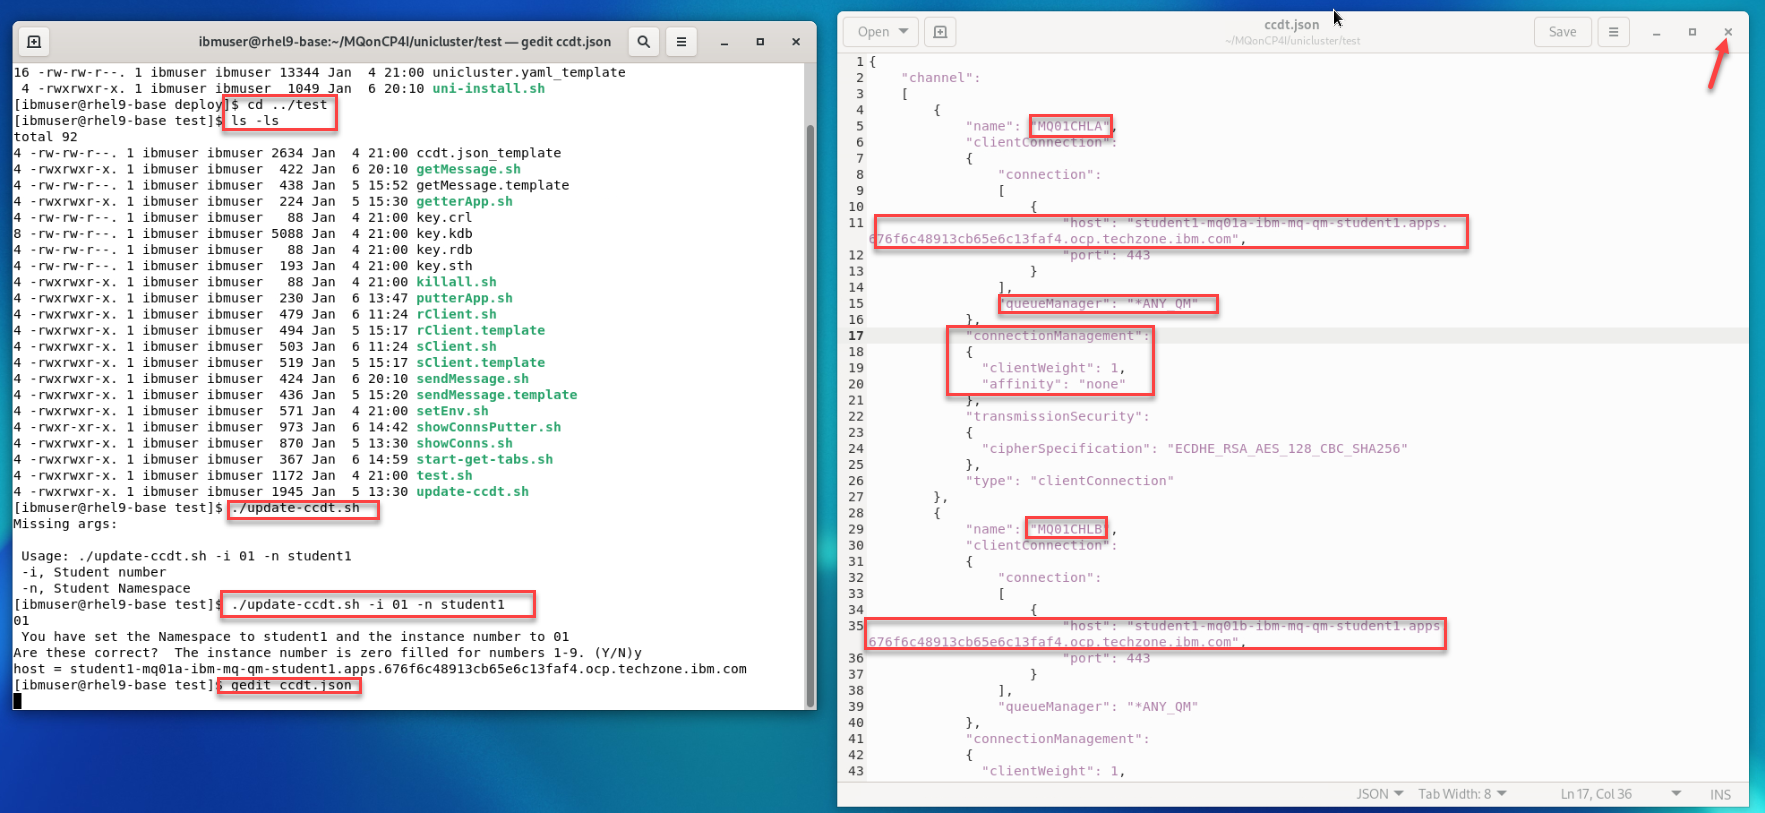
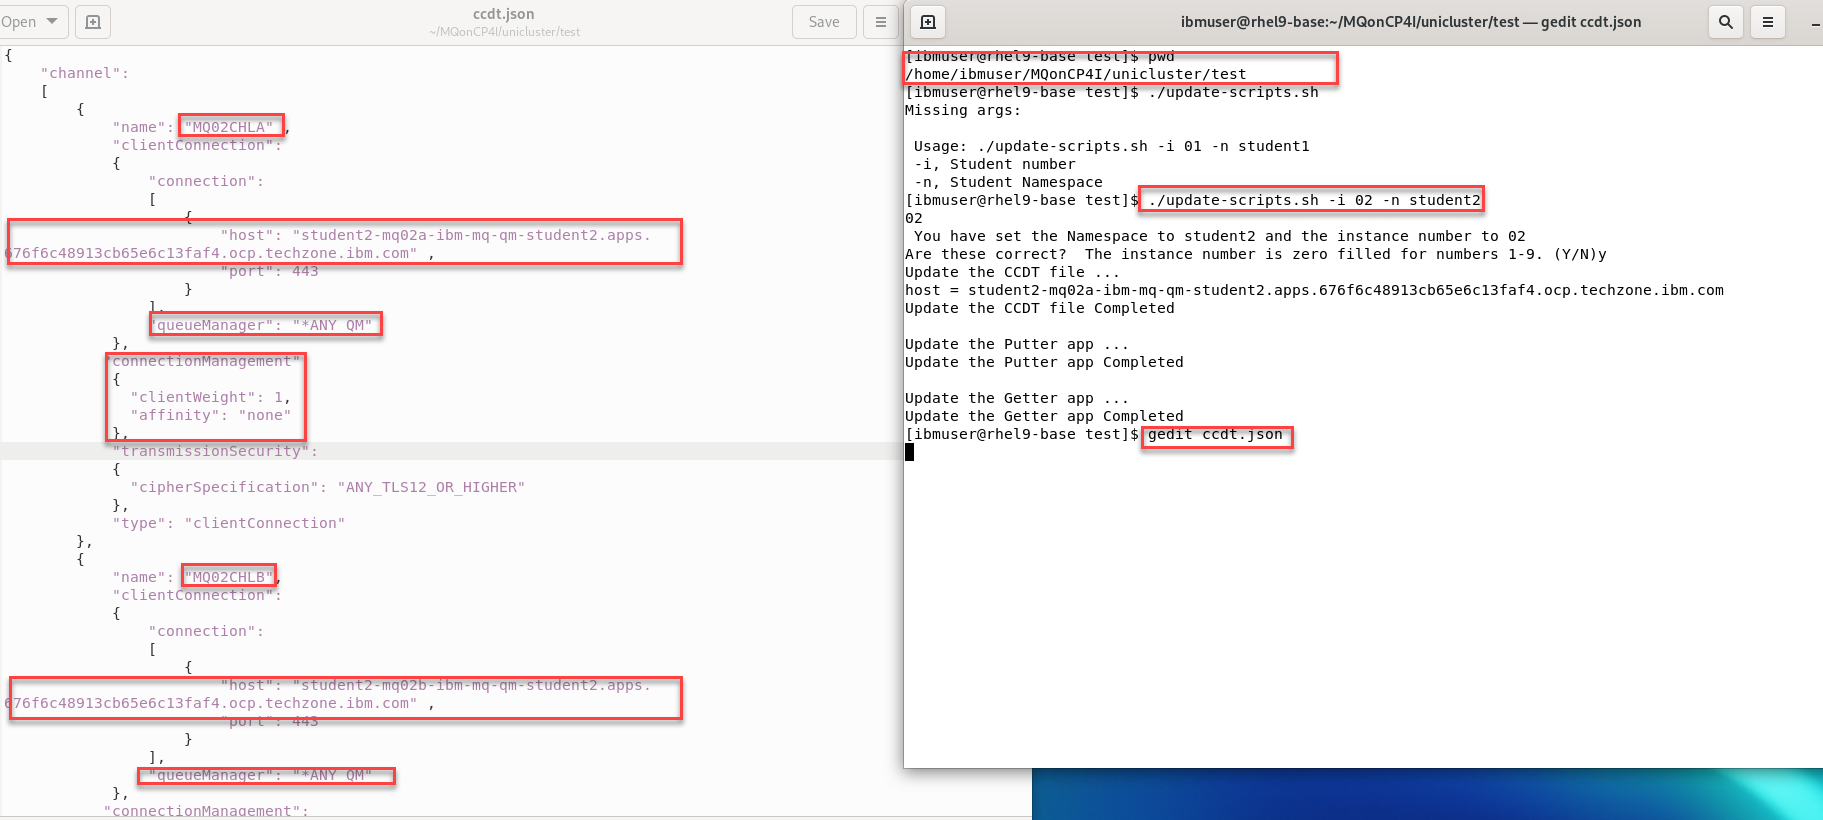
update unicluster lab

diff --git a/MQ/Lab_3/Readme.md b/MQ/Lab_3/Readme.md
@@ -181,13 +181,14 @@ For testing our cluster we shall see that by using Queue Manager Groups within o
 
 	1. ```cd ../test``` or ```cd /home/ibmuser/MQonCP4I/unicluster/test/```
 
-	1. Run the update script ```./update-ccdt.sh```
+	1. Run the update script ```./update-scripts.sh```
 		You will need to pass in your *Student number* and *Namespace*
-
-	1. Then edit the new ccdt.json file.   
-		The *host* is updated for each Qmgr and the clientConnection name.  Also for the queueManager name it will have *ANY_QM.
 		
-		values for each queue manager as you did in the *ccdt.json* file. There are 8 hosts parameters to change. As well as containing the original set of direct references to the queue managers, it gives a queue manager group definition with a route to all queue managers using the name **ANY_QM**.
+		* This will create your **ccdt.json** file as well as create a **getterApp.sh** and **putterApp.sh** that you will use later. 
+
+	1. Now edit the new ccdt.json file.   
+		The *host* is updated for each Qmgr and the clientConnection name.  Also for the queueManager name it will have *ANY_QM.
+		This gives you the a queue manager group definition with a route to all queue managers using the name **ANY_QM**.
 	1. We also have two new attributes:
 		* **clientWeight**: a priority list for each client. The default value is zero. A client with a higher clientWeight will be picked over a client with a smaller value.
 		* **affinity**: setting the affinity to “none” will build up an ordered list of group connections to attempt to try in a random order, for any clients on a particular named host.
@@ -202,9 +203,7 @@ For testing our cluster we shall see that by using Queue Manager Groups within o
 
 	![](./images/uni-test-2.png) 
 		
-1. Now to make it easier to look at all these terminals you should resize them and move them around.   Should look something like this.
-
-	You will have a getter and putter monitor for each of the three QMgrs.  
+1. 	You will have a getter and putter monitor for each of the three QMgrs.  
 
 	Do a quick test by running ```./getMessage.sh``` You will see one of the Qmgrs getters update.  When done do CTL-C
 
